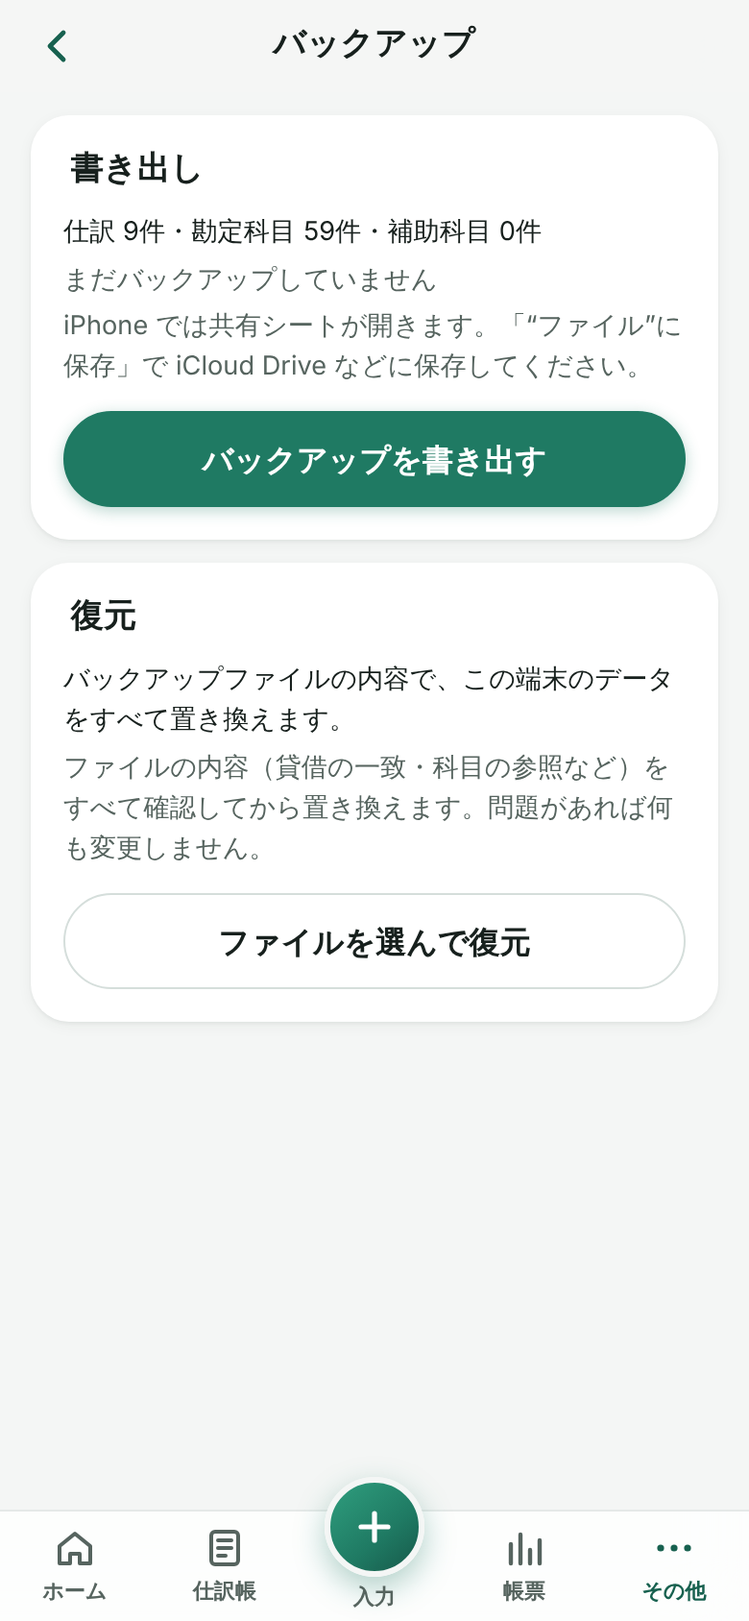
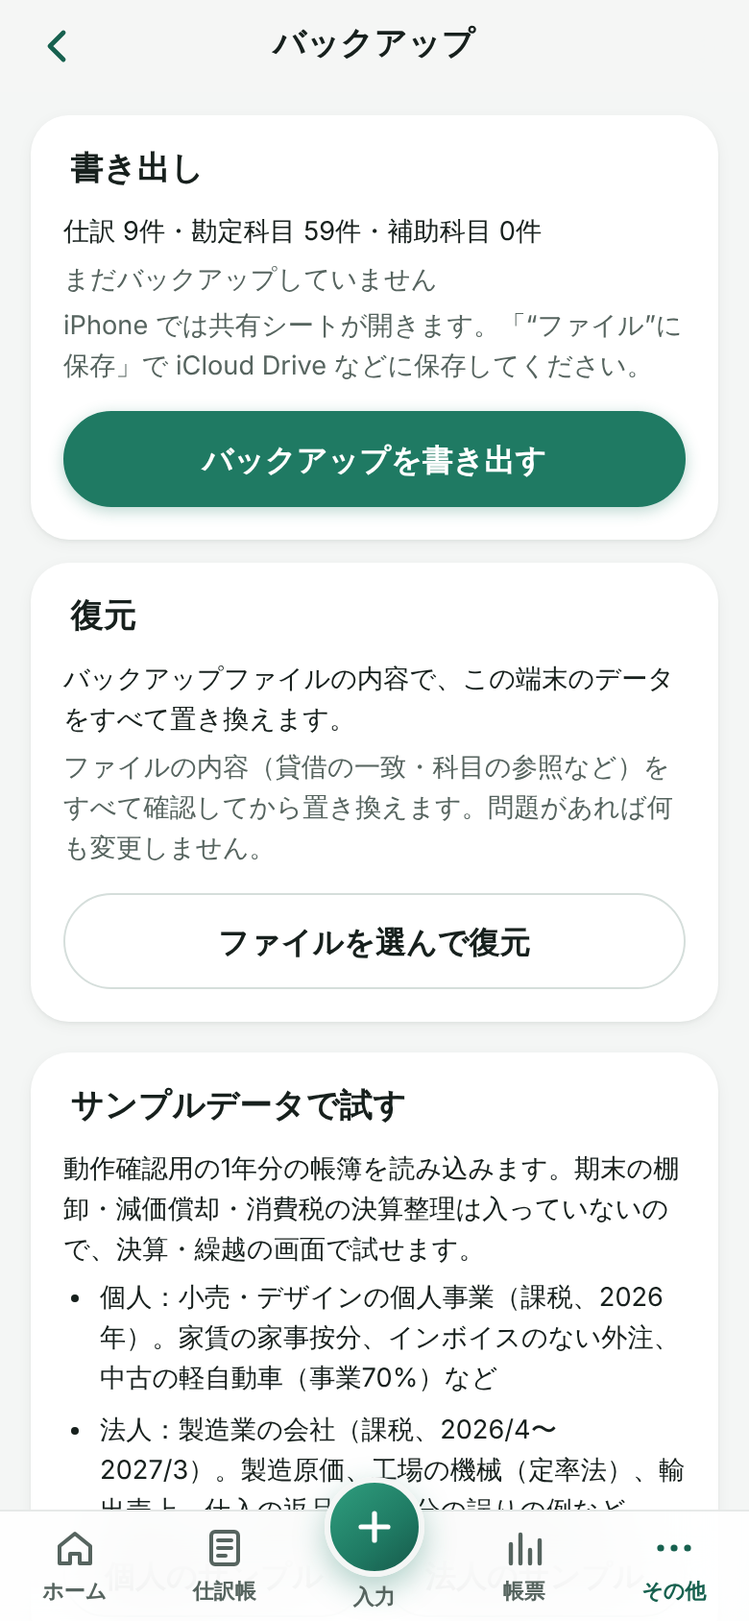
動作確認用のサンプルデータ（個人・法人）を初期設定・バックアップの画面から読み込めるようにする
Claude-Session: https://claude.ai/code/session_01S9p1vVb4QL9kWcCign3X9X

diff --git a/js/sample.js b/js/sample.js
@@ -1,0 +1,160 @@
+// 動作確認用のサンプルデータ（純粋関数）。バックアップと同じ形のデータを作り、復元と同じ方法で読み込む
+// 個人：小売・デザインの個人事業（課税事業者、2026年）。法人：製造業の会社（課税事業者、2026/4〜2027/3、製造原価を使う）
+// 期末の棚卸・減価償却・消費税の決算整理は入れていない（決算・繰越の画面で試すため）
+import { templateAccounts, manufacturingAccounts, findByRole } from './accounts.js';
+import { createAccount, createSubAccount, createPeriod, createJournal, createAsset, createSettings } from './models.js';
+import { monthsInPeriod } from './period.js';
+
+export const SAMPLE_NAMES = { individual: 'サンプル商店', corporation: 'サンプル製作所株式会社' };
+
+/** 月の日付（日が月末を超えるときは月末） */
+function day(month, d) {
+  const last = new Date(Number(month.slice(0, 4)), Number(month.slice(5, 7)), 0).getDate();
+  return `${month}-${String(Math.min(d, last)).padStart(2, '0')}`;
+}
+
+function book(entityType, { manufacturing = false, subs = [] } = {}) {
+  const base = templateAccounts(entityType);
+  const accounts = [...base, ...(manufacturing ? manufacturingAccounts(base) : [])].map((a) => createAccount(a));
+  const byName = Object.fromEntries(accounts.map((a) => [a.name, a]));
+  const subAccounts = subs.map(([accountName, name], i) => createSubAccount({ accountId: byName[accountName].id, name, sortOrder: i }));
+  const subId = (accountName, name) => subAccounts.find((s) => s.accountId === byName[accountName].id && s.name === name)?.id ?? null;
+  const journals = [];
+  /** 行は [科目名, 金額, 税区分?, 補助科目名?]。税区分を省くと科目の初期値 */
+  const j = (period, date, debits, credits, memo, extra = {}) => {
+    const line = (side, [name, amount, tax, sub]) => {
+      if (!byName[name]) throw new Error(`サンプルの科目がありません: ${name}`);
+      return { side, accountId: byName[name].id, subAccountId: sub ? subId(name, sub) : null, amount, taxCategory: tax ?? byName[name].defaultTaxCategory, memo };
+    };
+    journals.push(createJournal({ periodId: period.id, date, lines: [...debits.map((d) => line('debit', d)), ...credits.map((c) => line('credit', c))], ...extra }));
+  };
+  return { accounts, byName, subAccounts, subId, journals, j };
+}
+
+/** 伝票番号を日付順に振り、期間の次の番号を入れる */
+function finish(period, journals) {
+  journals.sort((a, b) => (a.date < b.date ? -1 : a.date > b.date ? 1 : 0)).forEach((x, i) => (x.no = i + 1));
+  period.nextJournalNo = journals.length + 1;
+}
+
+function individualSample(year) {
+  const { accounts, byName, subAccounts, subId, journals, j } = book('individual', { subs: [['普通預金', 'みらい銀行'], ['売掛金', 'A社'], ['売掛金', 'B社']] });
+  const period = createPeriod({ startDate: `${year}-01-01`, endDate: `${year}-12-31` });
+  const ob = (name, amount, sub) => ({ accountId: byName[name].id, subAccountId: sub ? subId(name, sub) : null, amount });
+  const assets = 50000 + 1200000 + 330000 + 150000;
+  const liabilities = 220000;
+  period.openingBalances = [ob('現金', 50000), ob('普通預金', 1200000, 'みらい銀行'), ob('売掛金', 220000, 'A社'), ob('売掛金', 110000, 'B社'), ob('商品', 150000), ob('買掛金', 220000), ob('元入金', assets - liabilities)];
+  const bank = ['普通預金', null, null, 'みらい銀行'];
+  const b = (amount, tax) => [bank[0], amount, tax, bank[3]];
+  for (const [i, m] of monthsInPeriod(period).entries()) {
+    const busy = [2, 6, 11].includes(i) ? 1.5 : 1; // 3・7・12月は売上が多い
+    const a = Math.round(330000 * busy);
+    j(period, day(m, 5), [['売掛金', a, null, 'A社']], [['売上高', a]], `${Number(m.slice(5))}月分 デザイン料 A社`);
+    j(period, day(m, 10), [['売掛金', 110000, null, 'B社']], [['売上高', 110000]], `${Number(m.slice(5))}月分 デザイン料 B社`);
+    j(period, day(m, 25), [b(i === 0 ? 220000 : 330000)], [['売掛金', i === 0 ? 220000 : 330000, null, 'A社']], 'A社 入金');
+    j(period, day(m, 28), [b(110000)], [['売掛金', 110000, null, 'B社']], 'B社 入金');
+    // 店頭の物販：雑貨（10%）と焼き菓子（軽減8%）
+    j(period, day(m, 15), [['現金', 55000 + 21600]], [['売上高', 55000, 'sales_10'], ['売上高', 21600, 'sales_8r']], '店頭売上（雑貨・焼き菓子）');
+    j(period, day(m, 8), [['仕入高', 44000, 'purchase_10'], ['仕入高', 10800, 'purchase_8r']], [['買掛金', 54800]], '商品仕入（雑貨・焼き菓子）');
+    j(period, day(m, 30), [['買掛金', i === 0 ? 220000 : 54800]], [b(i === 0 ? 220000 : 54800)], '仕入代金の支払');
+    // 家賃は自宅兼事務所：事業60%・私用40%
+    j(period, day(m, 27), [['地代家賃', 66000], ['事業主貸', 44000, 'none']], [b(110000)], '家賃（事業60%）');
+    j(period, day(m, 26), [['通信費', 8800], ['水道光熱費', 6600]], [b(15400)], '携帯・インターネット・電気');
+    if (i % 2 === 0) j(period, day(m, 12), [['消耗品費', 5500], ['新聞図書費', 3300]], [['現金', 8800]], '文具・資料');
+    if (i % 3 === 1) j(period, day(m, 18), [['旅費交通費', 4400], ['会議費', 2160, 'purchase_8r']], [['現金', 6560]], '打合せの交通費・飲み物');
+    // インボイスのない外注（免税事業者のイラストレーター）：経過措置の対象
+    if (i % 3 === 2) j(period, day(m, 20), [['外注工賃', 55000, 'purchase_10_ni']], [b(55000)], 'イラスト制作（インボイスなし）');
+    j(period, day(m, 25), [['事業主貸', 150000, 'none']], [b(150000)], '生活費');
+  }
+  const m = (n) => `${year}-${String(n).padStart(2, '0')}`;
+  j(period, day(m(4), 3), [['損害保険料', 36000, 'purchase_exempt']], [b(36000)], '火災保険（非課税）');
+  j(period, day(m(6), 20), [['広告宣伝費', 33000], ['支払手数料', 660]], [b(33660)], 'Web広告・振込手数料');
+  j(period, day(m(8), 10), [['売上高', 11000, 'sales_return_10']], [['売掛金', 11000, null, 'B社']], 'B社 値引き（修正対応）');
+  j(period, day(m(9), 1), [b(30000)], [['事業主借', 30000, 'none']], '私用口座から入金');
+  j(period, day(m(10), 15), [['租税公課', 12000, 'none']], [['現金', 12000]], '収入印紙・登録免許税');
+  j(period, day(m(11), 5), [['接待交際費', 16500]], [['現金', 16500]], '取引先との会食');
+  // 固定資産：パソコン（新品）と中古の軽自動車（事業70%）
+  j(period, day(m(3), 10), [['工具器具備品', 264000]], [b(264000)], 'ノートパソコン');
+  j(period, day(m(5), 20), [['車両運搬具', 660000]], [b(660000)], '中古の軽自動車');
+  const assetsList = [
+    createAsset({ name: 'ノートパソコン', category: 'tools', accountId: byName['工具器具備品'].id, acquiredOn: day(m(3), 10), startedOn: day(m(3), 12), cost: 264000, method: 'straight', usefulLife: 4, assetNo: 'A-001', location: '事務所' }),
+    createAsset({ name: '中古の軽自動車', category: 'vehicle', accountId: byName['車両運搬具'].id, acquiredOn: day(m(5), 20), startedOn: day(m(5), 25), cost: 660000, method: 'straight', usefulLife: 2, businessRatio: 70, assetNo: 'A-002', memo: '新車登録から4年経過（中古の簡便法で2年）' }),
+  ];
+  finish(period, journals);
+  return { settings: createSettings({ businessName: SAMPLE_NAMES.individual, entityType: 'individual', taxStatus: 'taxable' }), period, accounts, subAccounts, journals, assets: assetsList };
+}
+
+function corporationSample(year) {
+  const { accounts, byName, subAccounts, subId, journals, j } = book('corporation', { manufacturing: true, subs: [['普通預金', 'さくら銀行'], ['売掛金', '東和機工'], ['売掛金', '北斗精密'], ['買掛金', '中央金属']] });
+  const period = createPeriod({ startDate: `${year}-04-01`, endDate: `${year + 1}-03-31` });
+  const ob = (name, amount, sub) => ({ accountId: byName[name].id, subAccountId: sub ? subId(name, sub) : null, amount });
+  const debit = 4000000 + 3080000 + 300000 + 200000 + 400000 + 50000;
+  const credit = 660000 + 300000 + 3000000;
+  period.openingBalances = [
+    ob('現金', 50000),
+    ob('普通預金', 4000000, 'さくら銀行'),
+    ob('売掛金', 2200000, '東和機工'),
+    ob('売掛金', 880000, '北斗精密'),
+    ob('原材料', 300000),
+    ob('仕掛品', 200000),
+    ob('製品', 400000),
+    ob('買掛金', 660000, '中央金属'),
+    ob('未払法人税等', 300000),
+    ob('資本金', 3000000),
+    ob('繰越利益剰余金', debit - credit),
+  ];
+  const b = (amount, tax) => ['普通預金', amount, tax, 'さくら銀行'];
+  for (const [i, m] of monthsInPeriod(period).entries()) {
+    const label = `${Number(m.slice(5))}月分`;
+    const s1 = [2200000, 2420000, 2640000][i % 3];
+    j(period, day(m, 20), [['売掛金', s1, null, '東和機工']], [['売上高', s1]], `${label} 部品売上 東和機工`);
+    j(period, day(m, 25), [['売掛金', 880000, null, '北斗精密']], [['売上高', 880000]], `${label} 部品売上 北斗精密`);
+    const prev1 = i === 0 ? 2200000 : [2200000, 2420000, 2640000][(i - 1) % 3];
+    j(period, day(m, 31), [b(prev1)], [['売掛金', prev1, null, '東和機工']], '東和機工 入金（前月分）');
+    j(period, day(m, 31), [b(880000)], [['売掛金', 880000, null, '北斗精密']], '北斗精密 入金（前月分）');
+    j(period, day(m, 10), [['材料仕入高', 550000]], [['買掛金', 550000, null, '中央金属']], `${label} 材料仕入 中央金属`);
+    j(period, day(m, 31), [['買掛金', i === 0 ? 660000 : 550000, null, '中央金属']], [b(i === 0 ? 660000 : 550000)], '中央金属 支払（前月分）');
+    j(period, day(m, 25), [['賃金', 600000], ['役員報酬', 400000], ['給料手当', 250000]], [b(1100000), ['預り金', 150000]], `${label} 給与（源泉・社会保険料控除後）`);
+    j(period, day(m, 31), [['法定福利費（製造）', 90000], ['法定福利費', 95000], ['預り金', 150000]], [b(335000)], '社会保険料・源泉所得税の納付');
+    j(period, day(m, 27), [['外注加工費', 220000]], [b(220000)], 'めっき加工（外注）');
+    j(period, day(m, 26), [['電力費', 77000], ['水道光熱費（製造）', 11000], ['水道光熱費', 5500]], [b(93500)], '電気・水道');
+    j(period, day(m, 27), [['地代家賃（製造）', 198000], ['地代家賃', 66000]], [b(264000)], '工場・事務所の家賃');
+    j(period, day(m, 15), [['消耗品費（製造）', 33000], ['通信費', 13200]], [b(46200)], '工具・刃物、電話・ネット');
+    if (i % 2 === 1) j(period, day(m, 12), [['福利厚生費', 5400, 'purchase_8r'], ['会議費', 3300]], [['現金', 8700]], 'お茶・菓子（軽減8%）、打合せ');
+    if (i % 3 === 0) {
+      j(period, day(m, 1), [['現金', 40000]], [b(40000)], '小口現金の補充');
+      j(period, day(m, 18), [['旅費交通費', 26400]], [['現金', 26400]], '営業の出張');
+    }
+  }
+  const m = (y, n) => `${y}-${String(n).padStart(2, '0')}`;
+  // 固定資産：工場の機械（製造経費に償却）と事務のパソコン
+  j(period, day(m(year, 4), 15), [['機械装置', 1650000]], [b(1650000)], 'NC旋盤');
+  j(period, day(m(year, 7), 1), [['工具器具備品', 198000]], [b(198000)], '事務用パソコン');
+  j(period, day(m(year, 5), 31), [['未払法人税等', 300000]], [b(300000)], '前期の法人税等の納付');
+  j(period, day(m(year, 6), 10), [['保険料（製造）', 120000, 'purchase_exempt'], ['保険料', 48000, 'purchase_exempt']], [b(168000)], '工場の火災保険・自動車保険');
+  j(period, day(m(year, 9), 20), [['普通預金', 330000, null, 'さくら銀行']], [['売上高', 330000, 'sales_export']], '台湾向け部品の輸出（免税）');
+  j(period, day(m(year, 10), 5), [['修繕費（製造）', 165000]], [b(165000)], '旋盤の修理');
+  j(period, day(m(year, 11), 15), [['売上高', 55000, 'sales_return_10']], [['売掛金', 55000, null, '北斗精密']], '北斗精密 不良品の値引き');
+  j(period, day(m(year, 12), 10), [['外注加工費', 110000, 'purchase_10_ni']], [b(110000)], '研磨加工（インボイスのない個人の外注先）');
+  j(period, day(m(year + 1, 1), 20), [['買掛金', 22000, null, '中央金属']], [['材料仕入高', 22000, 'purchase_return_10']], '材料の返品 中央金属');
+  j(period, day(m(year + 1, 2), 28), [b(1200, 'none')], [['受取利息', 1200]], '普通預金の利息（非課税）');
+  // 税区分のチェックの確認用：雑費に売上の税区分（誤り）
+  j(period, day(m(year + 1, 3), 5), [['雑費', 3300, 'sales_10']], [['現金', 3300]], '事務用品（税区分の誤りの例：チェック画面で確認）');
+  const assets = [
+    createAsset({ name: 'NC旋盤', category: 'machinery', accountId: byName['機械装置'].id, acquiredOn: day(m(year, 4), 15), startedOn: day(m(year, 4), 20), cost: 1650000, method: 'declining', usefulLife: 10, assetNo: 'M-001', location: '本社工場', expenseAccountId: byName['減価償却費（製造）'].id }),
+    createAsset({ name: '事務用パソコン', category: 'tools', accountId: byName['工具器具備品'].id, acquiredOn: day(m(year, 7), 1), startedOn: day(m(year, 7), 1), cost: 198000, method: 'lump3', assetNo: 'T-001', location: '事務所' }),
+  ];
+  finish(period, journals);
+  return { settings: createSettings({ businessName: SAMPLE_NAMES.corporation, entityType: 'corporation', taxStatus: 'taxable', manufacturing: true }), period, accounts, subAccounts, journals, assets };
+}
+
+/**
+ * サンプルデータ（Repository.replaceAll に渡せる形。バックアップと同じ項目）
+ * @param {'individual'|'corporation'} entityType
+ * @param {{ year?: number }} opts year：個人は暦年、法人は期首の年（既定 2026）
+ */
+export function buildSample(entityType, { year = 2026 } = {}) {
+  const s = entityType === 'corporation' ? corporationSample(year) : individualSample(year);
+  if (!findByRole(s.accounts, 'cash')) throw new Error('サンプルの科目が不正です');
+  return { settings: s.settings, currentPeriodId: s.period.id, accounts: s.accounts, subAccounts: s.subAccounts, periods: [s.period], journals: s.journals, assets: s.assets, tombstones: [] };
+}

diff --git a/test/sample.test.js b/test/sample.test.js
@@ -1,0 +1,55 @@
+// サンプルデータ：バックアップの検証を通り、決算書が一致し、現金・預金がマイナスにならない
+import { test } from 'node:test';
+import assert from 'node:assert/strict';
+import { IDBFactory } from 'fake-indexeddb';
+import { buildSample } from '../js/sample.js';
+import { createBackup, parseBackup } from '../js/backup.js';
+import { buildStatements, closingRows, manufacturingReport } from '../js/statements.js';
+import { firstNegativeDate } from '../js/ledger.js';
+import { taxChecks } from '../js/tax-reports.js';
+import { summarizeTax } from '../js/tax.js';
+import { depreciationLines } from '../js/depreciation.js';
+import { openDB } from '../js/db.js';
+
+for (const entityType of ['individual', 'corporation']) {
+  test(`サンプルデータ（${entityType}）：検証を通り、BSが一致し、現金・預金がマイナスにならない`, () => {
+    const data = parseBackup(JSON.stringify(createBackup(buildSample(entityType))));
+    const period = data.periods[0];
+    assert.equal(data.currentPeriodId, period.id);
+    assert.ok(data.journals.length > 100);
+    assert.equal(period.nextJournalNo, data.journals.length + 1);
+    const { pl, bs } = buildStatements({ entityType, accounts: data.accounts, period, journals: data.journals });
+    assert.equal(bs.balanced, true);
+    assert.ok(pl.netIncome > 0);
+    for (const a of data.accounts.filter((x) => x.role === 'cash' || x.role === 'deposit')) {
+      for (const sub of [null, ...data.subAccounts.filter((s) => s.accountId === a.id).map((s) => s.id)]) {
+        assert.equal(firstNegativeDate({ accountId: a.id, subAccountId: sub, accounts: data.accounts, subAccounts: data.subAccounts, period, journals: data.journals }), null, a.name);
+      }
+    }
+    // 減価償却の仕訳を作れる
+    assert.deepEqual(depreciationLines({ assets: data.assets, periods: data.periods, period, accounts: data.accounts, entityType }).errors, []);
+    // 消費税：課税売上・課税仕入があり、インボイスのない仕入もある
+    const tax = summarizeTax(data.journals);
+    const gross = (code) => tax.rows.find((r) => r.code === code).gross;
+    assert.ok(gross('sales_10') > 0 && gross('purchase_10') > 0 && gross('purchase_10_ni') > 0);
+  });
+}
+
+test('法人のサンプル：製造原価を使い、製造原価報告書が出る。税区分のチェックの例が1件', () => {
+  const data = buildSample('corporation');
+  assert.equal(data.settings.manufacturing, true);
+  const r = manufacturingReport(closingRows({ accounts: data.accounts, period: data.periods[0], journals: data.journals }));
+  assert.equal(r.used, true);
+  assert.ok(r.cost > 0);
+  assert.deepEqual(taxChecks({ journals: data.journals, accounts: data.accounts }).map((x) => x.type), ['expense_sales']);
+  assert.ok(data.assets.some((a) => a.expenseAccountId));
+});
+
+test('サンプルデータを Repository に読み込める', async () => {
+  const repo = await openDB({ indexedDB: new IDBFactory() });
+  const data = parseBackup(JSON.stringify(createBackup(buildSample('individual'))));
+  await repo.replaceAll(data);
+  assert.equal((await repo.getSettings()).entityType, 'individual');
+  assert.equal((await repo.counts()).journals, data.journals.length);
+  repo.close();
+});

diff --git a/js/views/sample-load.js b/js/views/sample-load.js
@@ -1,0 +1,42 @@
+// サンプルデータの読み込み（初期設定・バックアップの画面から）。復元と同じ検証を通してから置き換える
+import { h, showToast, confirmDialog } from '../ui.js';
+import { buildSample, SAMPLE_NAMES } from '../sample.js';
+import { createBackup, parseBackup } from '../backup.js';
+import { APP_VERSION } from '../version.js';
+import { errorText } from '../errors.js';
+
+/**
+ * サンプルデータのボタン（個人・法人）
+ * @param {{ app, journals?: number }} opts journals：今の仕訳の件数（1件以上なら置き換えの確認を出す）
+ */
+export function samplePanel({ app, journals = 0 }) {
+  async function load(entityType) {
+    if (journals > 0) {
+      const ok = await confirmDialog({
+        title: 'サンプルデータで置き換えますか？',
+        message: `現在のデータ（仕訳 ${journals}件）は消えます。先にバックアップを書き出してください。`,
+        buttons: [
+          { label: 'キャンセル', value: false },
+          { label: '置き換える', value: true, variant: 'danger' },
+        ],
+      });
+      if (!ok) return;
+    }
+    try {
+      const data = parseBackup(JSON.stringify(createBackup(buildSample(entityType), { appVersion: APP_VERSION })));
+      await app.db.replaceAll(data);
+      showToast(`サンプルデータ（${SAMPLE_NAMES[entityType]}）を読み込みました`, { duration: 6000 });
+      app.navigate('#/home', { replace: true });
+    } catch (e) {
+      showToast(errorText(e, 'サンプルデータの読み込み'));
+    }
+  }
+  return h(
+    'div',
+    { class: 'panel sample-panel' },
+    h('h2', { class: 'section-title', text: 'サンプルデータで試す' }),
+    h('p', { class: 'small', text: '動作確認用の1年分の帳簿を読み込みます。期末の棚卸・減価償却・消費税の決算整理は入っていないので、決算・繰越の画面で試せます。' }),
+    h('ul', { class: 'small plain-list' }, h('li', { text: '個人：小売・デザインの個人事業（課税、2026年）。家賃の家事按分、インボイスのない外注、中古の軽自動車（事業70%）など' }), h('li', { text: '法人：製造業の会社（課税、2026/4〜2027/3）。製造原価、工場の機械（定率法）、輸出売上、仕入の返品、税区分の誤りの例など' })),
+    h('div', { class: 'field-row' }, h('button', { type: 'button', class: 'btn', text: '個人のサンプル', onclick: () => load('individual') }), h('button', { type: 'button', class: 'btn', text: '法人のサンプル', onclick: () => load('corporation') })),
+  );
+}

diff --git a/js/views/setup.js b/js/views/setup.js
@@ -5,6 +5,7 @@ import { createAccount, createPeriod, createSettings, ENTITY_LABELS, TAX_STATUS_
 import { individualPeriod, defaultCorporateEnd, todayString, validatePeriod } from '../period.js';
 import { ValidationError } from '../db.js';
 import { errorText } from '../errors.js';
+import { samplePanel } from './sample-load.js';
 
 export async function render({ app, outlet }) {
   const thisYear = Number(todayString().slice(0, 4));
@@ -82,7 +83,7 @@ export async function render({ app, outlet }) {
     h('button', { type: 'submit', class: 'btn btn-primary btn-block', text: 'この内容で始める' }),
   );
   syncEntity();
-  put(outlet, form);
+  put(outlet, form, samplePanel({ app }));
 
   async function submit() {
     const period = state.entityType === 'individual' ? individualPeriod(state.year) : { startDate: state.startDate, endDate: state.endDate };

diff --git a/sw.js b/sw.js
@@ -1,6 +1,6 @@
 // Service Worker
 // ファイルを変更したら CACHE_VERSION を上げる。ファイルを追加・削除したら PRECACHE_URLS も更新する（npm run check で検出）
-const CACHE_VERSION = 'v20';
+const CACHE_VERSION = 'v21';
 const CACHE_NAME = `pocket-kaikei-${CACHE_VERSION}`;
 
 // 事前にキャッシュするファイル（相対パス）
@@ -40,6 +40,7 @@ const PRECACHE_URLS = [
   'js/tax.js',
   'js/tax-return.js',
   'js/tax-reports.js',
+  'js/sample.js',
   'js/blue-return.js',
   'js/ui.js',
   'js/version.js',
@@ -57,6 +58,7 @@ const PRECACHE_URLS = [
   'js/views/monthly.js',
   'js/views/trial-monthly.js',
   'js/views/manufacturing.js',
+  'js/views/sample-load.js',
   'js/views/period-common.js',
   'js/views/periods.js',
   'js/views/closing.js',

diff --git a/js/views/backup.js b/js/views/backup.js
@@ -3,6 +3,7 @@ import { h, put, showToast, confirmDialog, saveFile } from '../ui.js';
 import { createBackup, parseBackup, backupFileName, BackupError } from '../backup.js';
 import { APP_VERSION } from '../version.js';
 import { errorText } from '../errors.js';
+import { samplePanel } from './sample-load.js';
 
 export async function render({ app, outlet }) {
   const counts = await app.db.counts();
@@ -28,6 +29,7 @@ export async function render({ app, outlet }) {
       h('button', { type: 'button', class: 'btn btn-block', text: 'ファイルを選んで復元', onclick: () => file.click() }),
       file,
     ),
+    samplePanel({ app, journals: counts.journals }),
   );
 
   async function exportBackup() {

diff --git a/css/style.css b/css/style.css
@@ -587,3 +587,6 @@ details.panel > summary { cursor: pointer; list-style: revert; }
 .mtb .mt-col-quarter, .mtb .mt-col-half, .mtb .mt-col-adjust, .mtb .mt-col-total { background: var(--surface-2); font-weight: 600; }
 .mtb .mt-col-opening { color: var(--muted); }
 .adjusting-check { display: flex; margin: 0 0 var(--sp-3); }
+
+/* サンプルデータ */
+.sample-panel { margin-top: 16px; }

diff --git a/js/version.js b/js/version.js
@@ -1,2 +1,2 @@
 // 利用者に見せるバージョン。リリースのたびに上げる
-export const APP_VERSION = '0.17.0';
+export const APP_VERSION = '0.18.0';

diff --git a/docs/sample-data.md b/docs/sample-data.md
@@ -1,0 +1,20 @@
+# サンプルデータ（v0.18.0）
+
+動作確認用。初期設定の画面と、バックアップの画面の「サンプルデータで試す」から読み込む（仕訳があるときは置き換えの確認を出す）。
+`js/sample.js` の `buildSample(entityType)` がバックアップと同じ形のデータを作り、`parseBackup` の検証を通してから `replaceAll` で置き換える。
+
+## 個人：サンプル商店（課税事業者、2026年）
+- デザイン料（掛け、補助科目 A社・B社）、店頭の物販（10%と軽減8%）、商品仕入（10%・8%）
+- 家賃の家事按分（事業60%、私用分は事業主貸）、生活費（事業主貸）、私用口座からの入金（事業主借）
+- インボイスのない外注（`purchase_10_ni`）、非課税の保険料、売上の値引き（`sales_return_10`）
+- 固定資産：ノートパソコン（定額法4年）、中古の軽自動車（事業70%、簡便法で2年）
+
+## 法人：サンプル製作所株式会社（課税事業者、2026/4〜2027/3、製造原価を使う）
+- 部品の売上（掛け）、材料仕入（掛け）、賃金・役員報酬・給料、社会保険料、外注加工・電力・工場家賃
+- 期首に原材料・仕掛品・製品の在庫
+- 輸出売上（免税）、仕入の返品、売上の値引き、インボイスのない外注、軽減8%、受取利息（非課税）
+- 固定資産：NC旋盤（定率法10年、償却費は減価償却費（製造））、事務用パソコン（一括償却）
+- 税区分のチェックの確認用に、雑費に売上の税区分を付けた誤りの例が1件
+
+期末の棚卸・減価償却・消費税の決算整理は入れていない（決算・繰越の画面で試すため）。
+画面の確認：`python3 -m http.server 8123 & node scripts/sample-shots.cjs`
